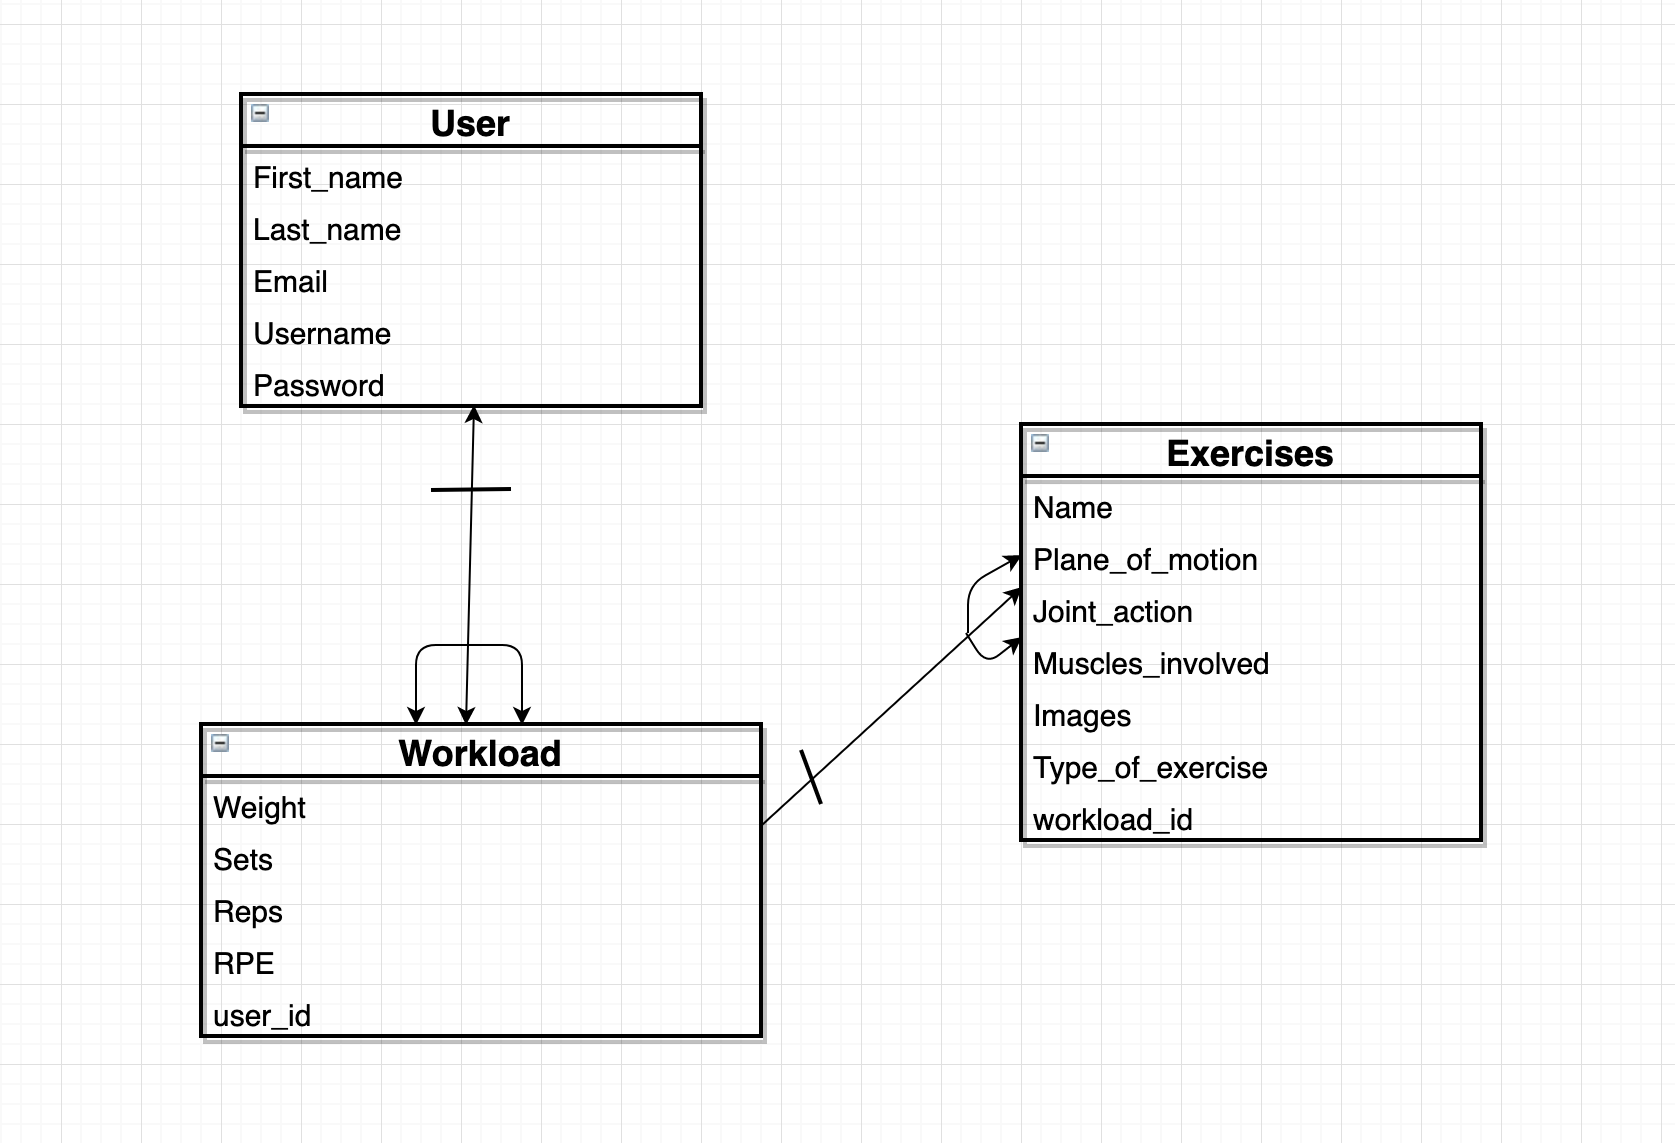
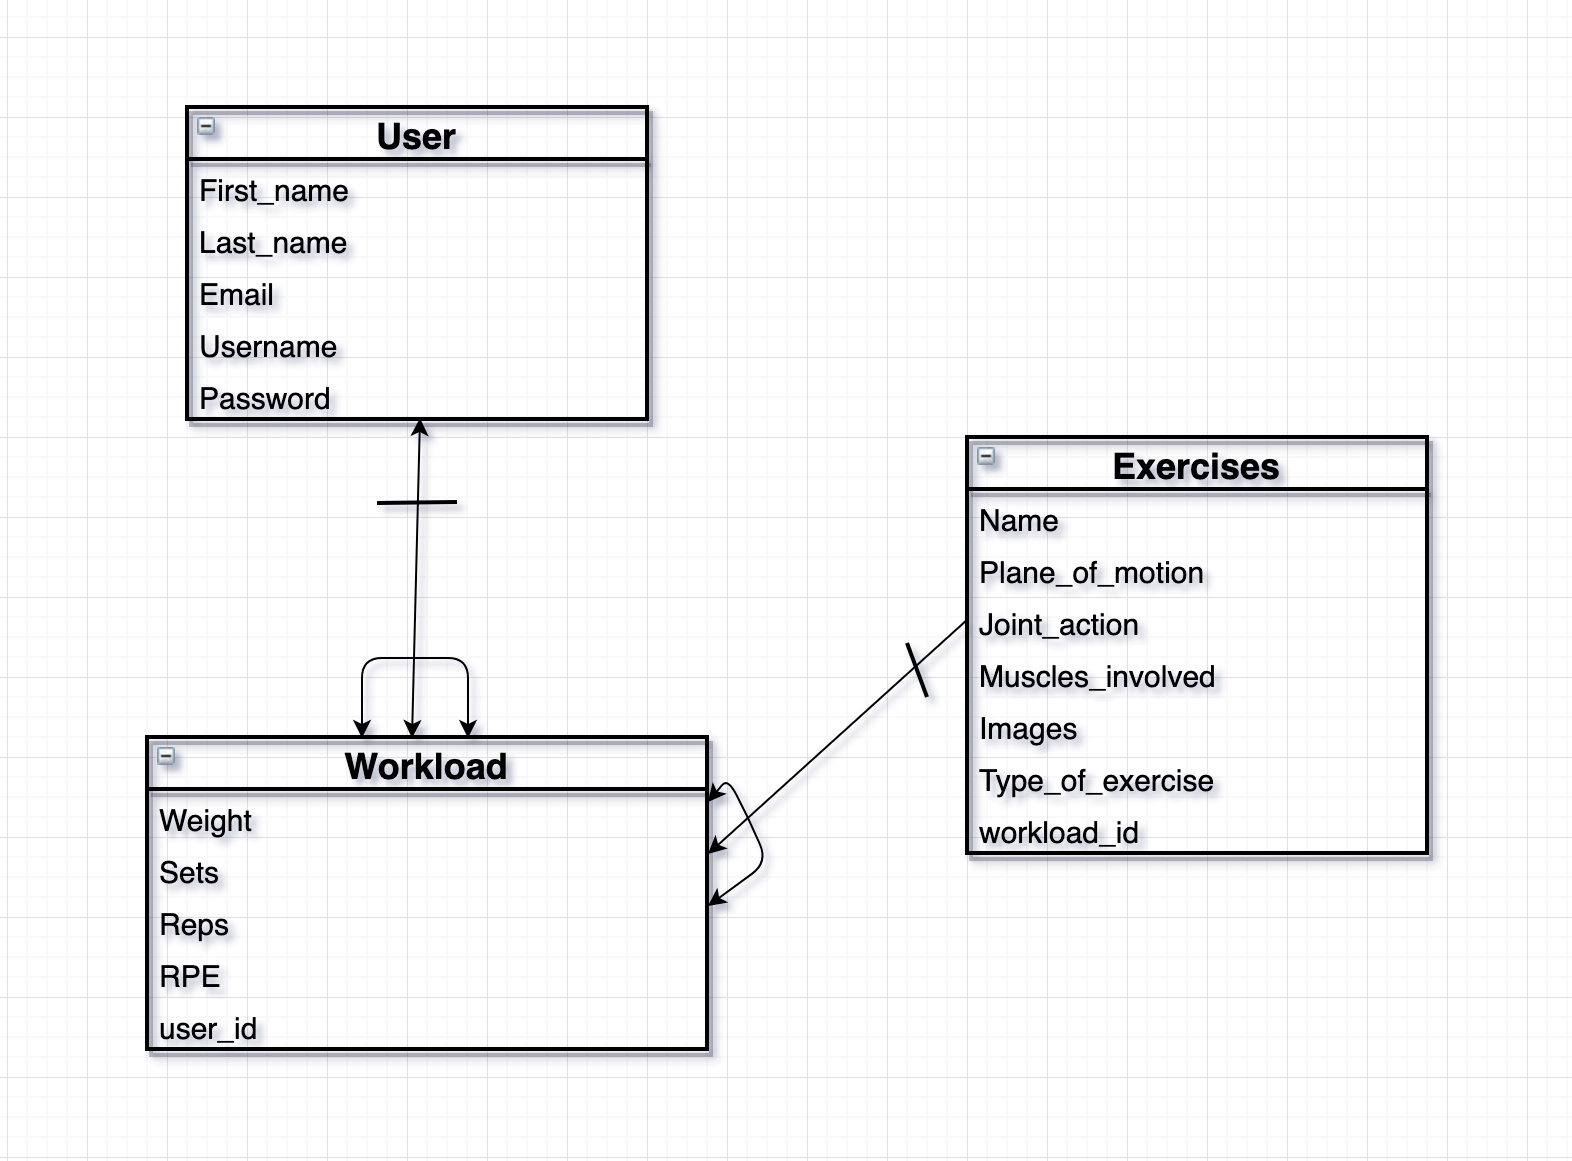
added description for each charts

Changed region(s): [[0.0935, 0.3675, 0.9351, 0.9186], [0.0935, 0.0612, 0.4364, 0.4593]]

diff --git a/README.md b/README.md
@@ -34,9 +34,10 @@ Routine Page             |  Description
 
 ## Entity Relationship Diagram (ERD)
 <img src="wireframes-charts/Lifters-Paradise-ERD.jpg" width="1400">
-
+Both the user and exercises will have a one to many relationship with Workload. So each users and exercises can have many Workload. The Workload will fill in the Create, Read, Update, and Delete (CRUD) functionalities. So for each exercise a user wants to add to his/her routine, he/she must fill out a form on how many sets, reps, and weights he/she did as well as input their RPE. That workload will be shown under the added exercise. The user can then decide wether to delete that workload, add another one, or update the current ones. 
 ------------------------------------------------------------------------------------------------------------------------
 
 ## Component Hierarchy Model
 <img src="wireframes-charts/Lifters-Paradise-Component-Hierarchy.jpg" width="1400">
+The component heirarchy starts off with the navbar and routes from the App.js. The navbar will remain on each page as different components render, which is why it is under the App.js. The routes significate the number of different links the webpage goes to. Under each links will be components, which will represent the outlook for that page. 
 
